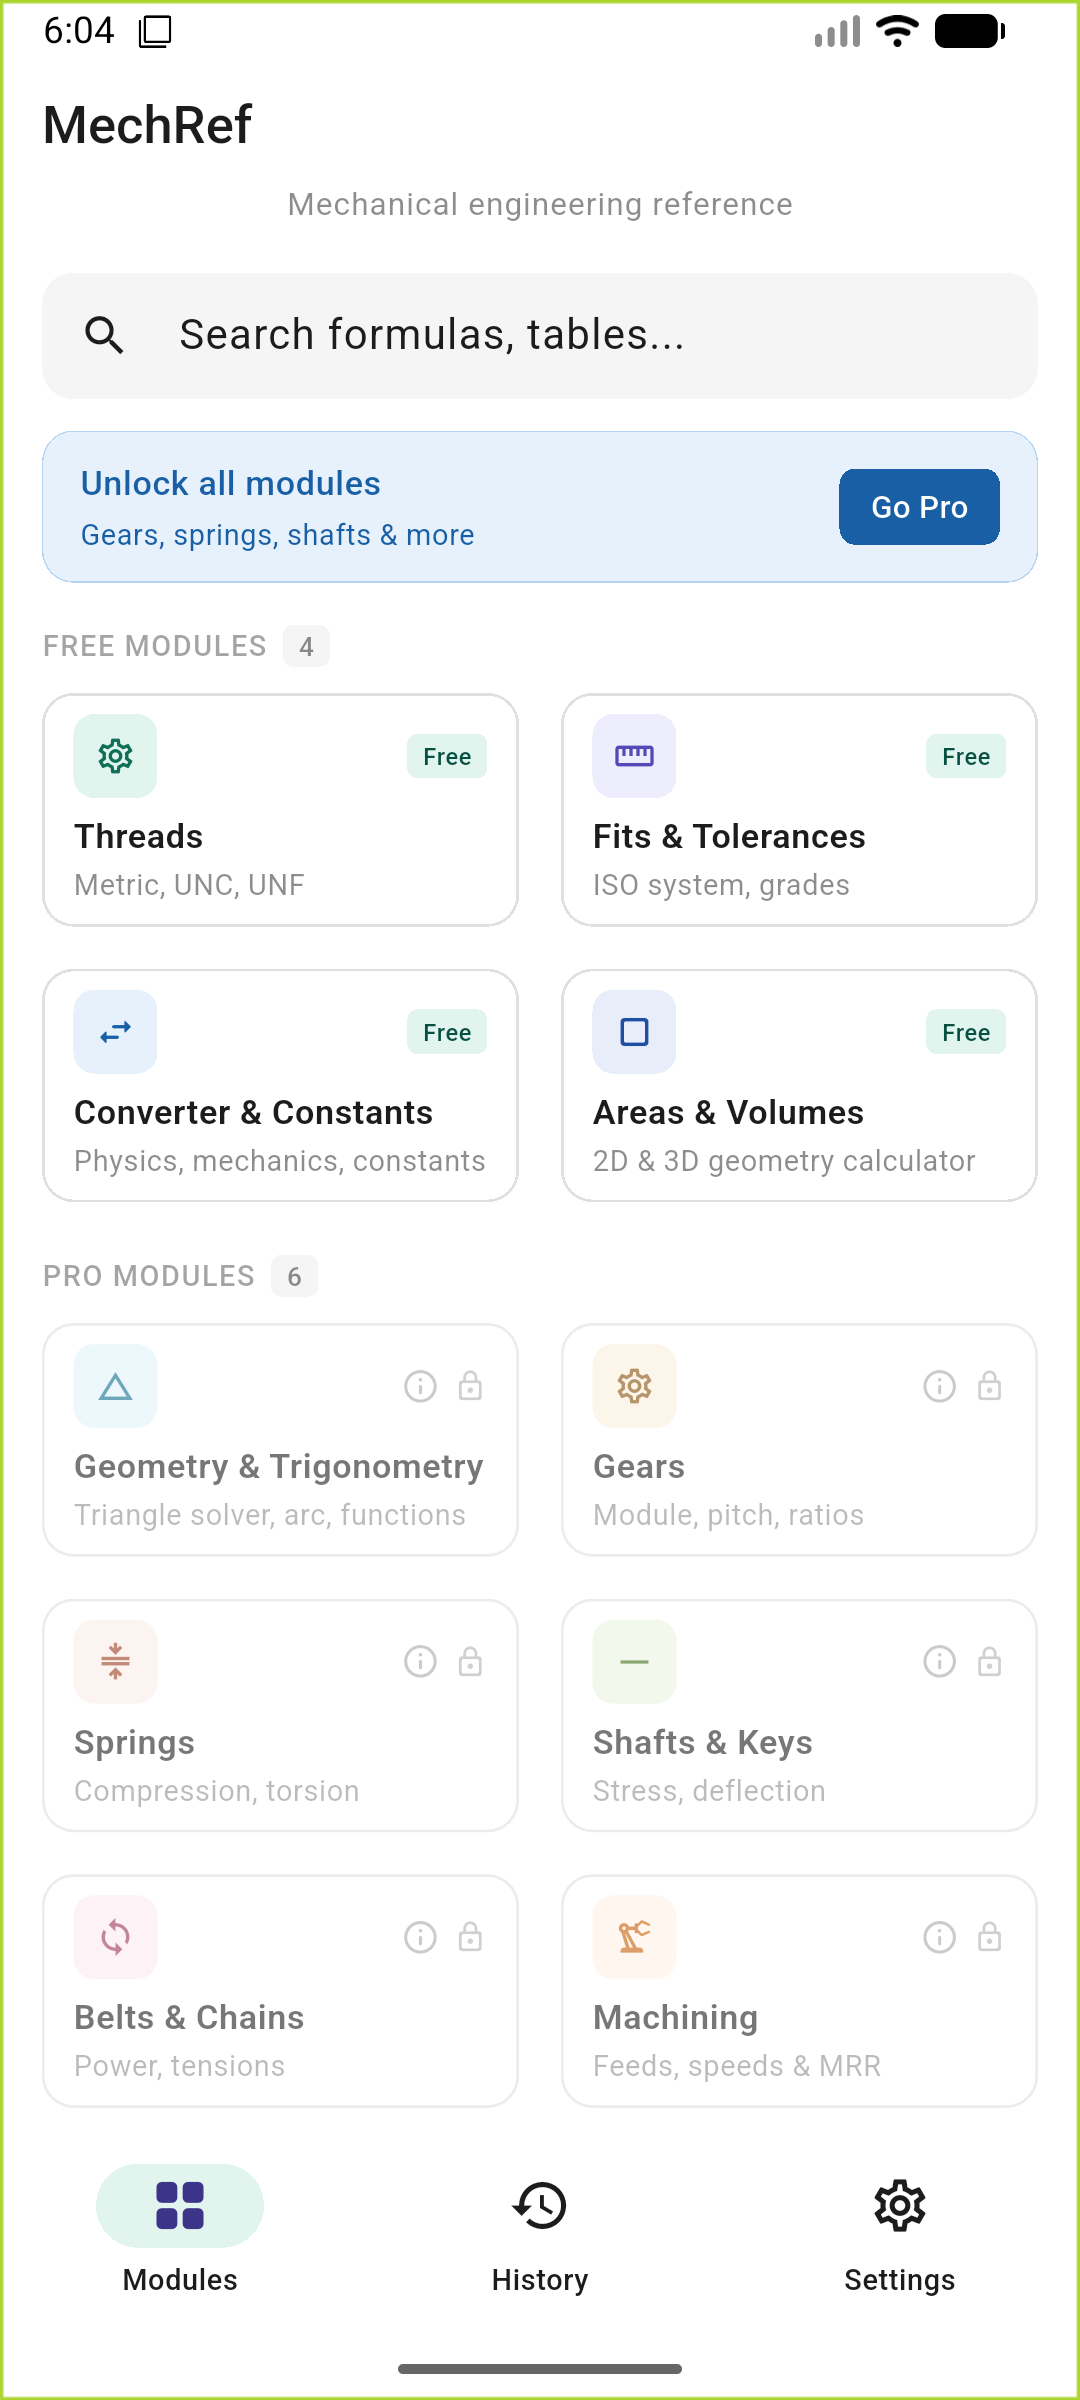
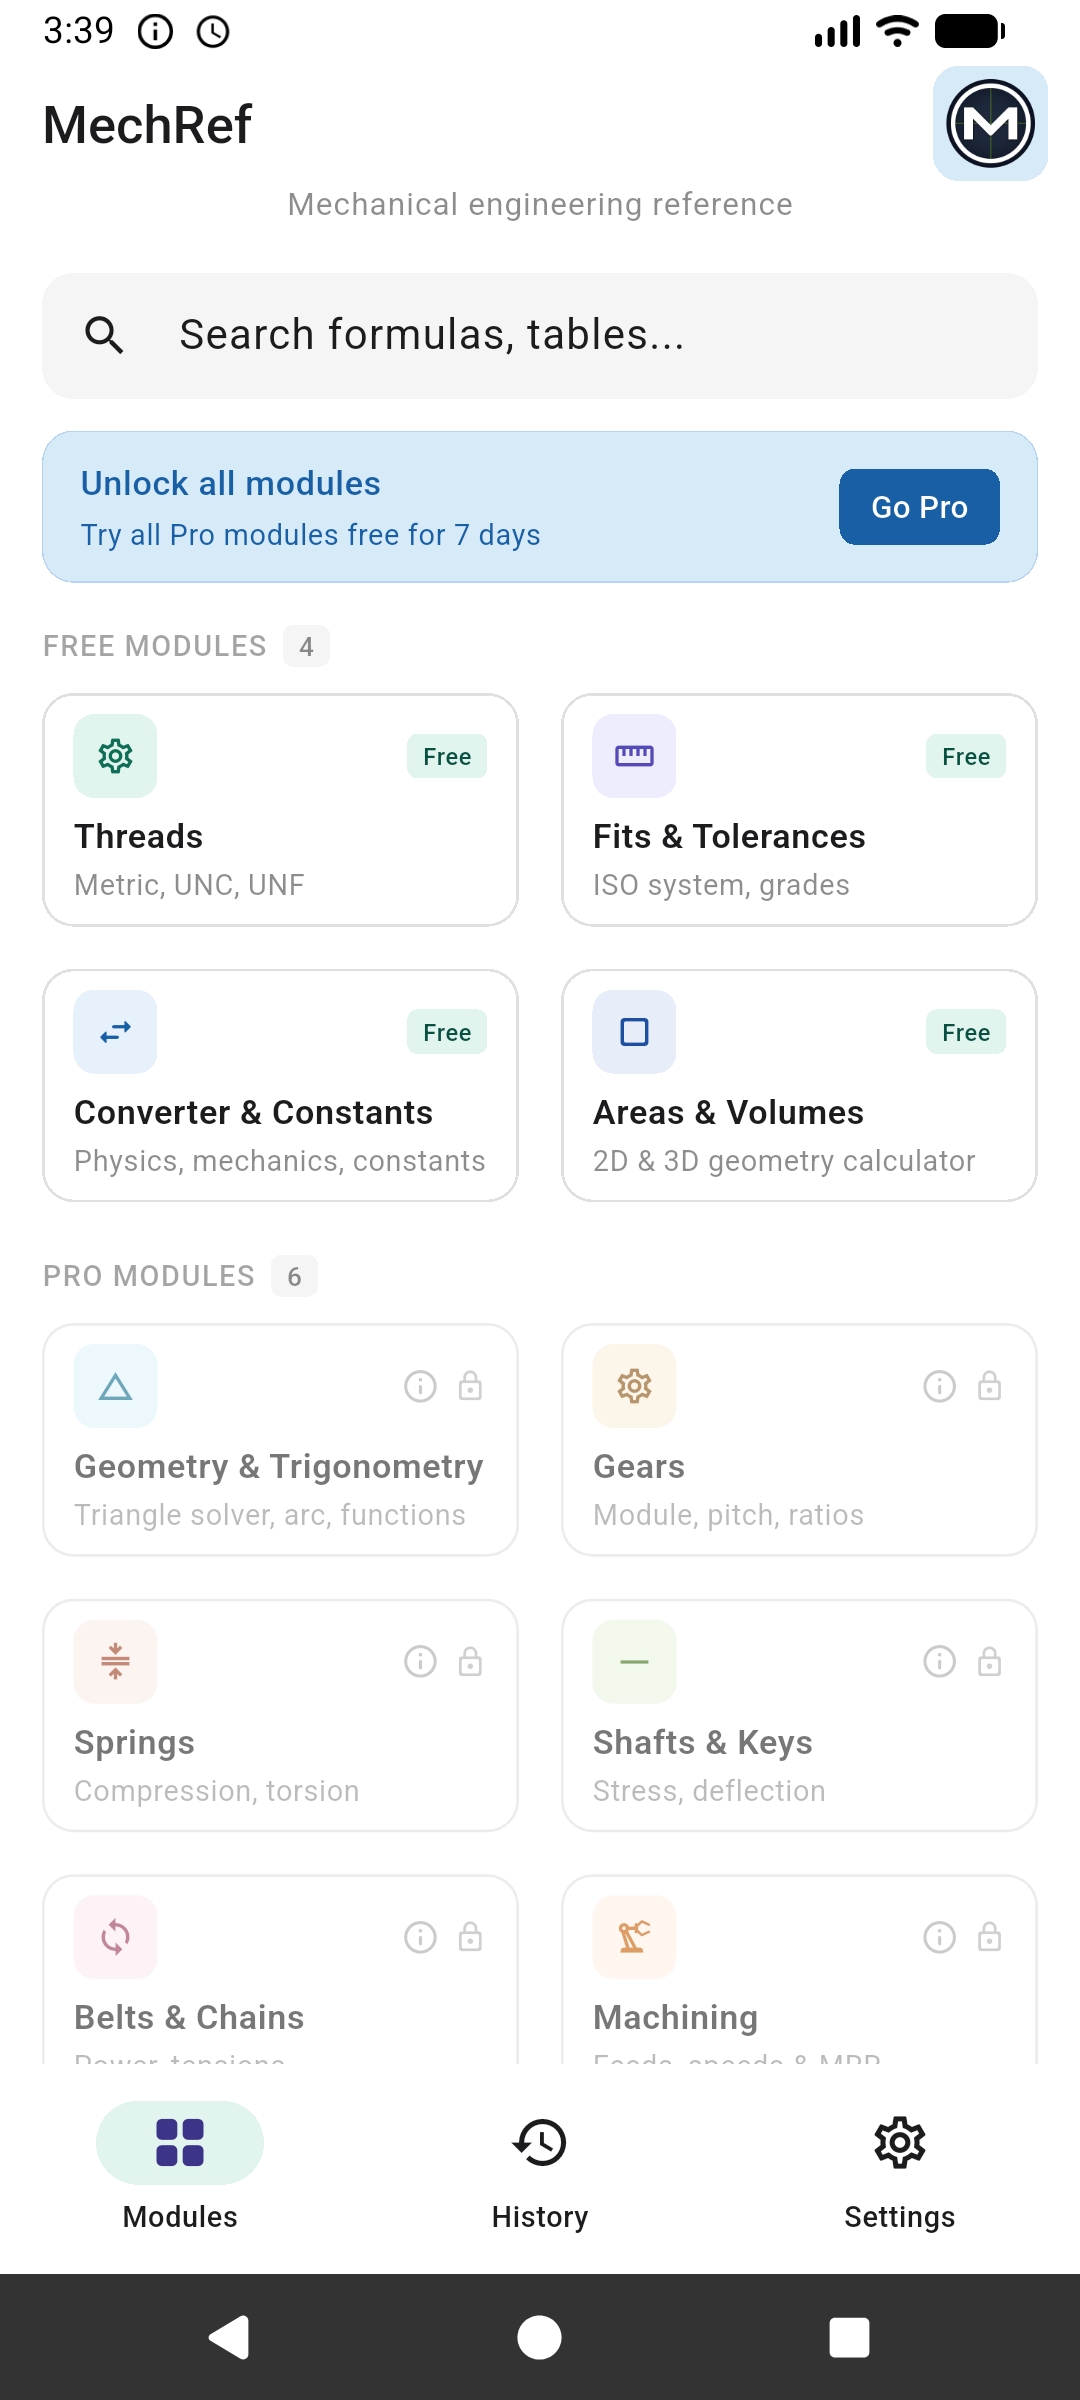
Refresh phone screenshots with the 1.0.6 sets (EN + ES)
The landing pages showed pre-1.0.6 shots with no trial banner. EN now
uses the new English set; the Spanish page gets its own Spanish shots at
screenshots/es/ instead of reusing the English ones.

Changed region(s): [[0.0, 0.0, 1.0, 1.0], [0.0917, 0.2188, 0.4889, 0.25], [0.7639, 0.0, 0.7944, 0.0312]]

diff --git a/index.es.html b/index.es.html
@@ -461,13 +461,13 @@
 
   <div class="hero-visual">
     <div class="phone-frame phone-left">
-      <img src="screenshots/screen2.png" alt="Módulo Roscas"/>
+      <img src="screenshots/es/screen2.png" alt="Módulo Roscas"/>
     </div>
     <div class="phone-frame phone-main">
-      <img src="screenshots/screen1.png" alt="Inicio de MechRef"/>
+      <img src="screenshots/es/screen1.png" alt="Inicio de MechRef"/>
     </div>
     <div class="phone-frame phone-right">
-      <img src="screenshots/screen3.png" alt="Ajustes y tolerancias"/>
+      <img src="screenshots/es/screen3.png" alt="Ajustes y tolerancias"/>
     </div>
   </div>
 </div>
@@ -546,11 +546,11 @@
   <div class="section-label">Capturas</div>
   <h2>Míralo en Acción</h2>
   <div class="screenshots-scroll">
-    <div class="screenshot-item"><img src="screenshots/screen1.png" alt="Pantalla de inicio"/></div>
-    <div class="screenshot-item"><img src="screenshots/screen2.png" alt="Módulo Roscas"/></div>
-    <div class="screenshot-item"><img src="screenshots/screen3.png" alt="Ajustes y Tolerancias"/></div>
-    <div class="screenshot-item"><img src="screenshots/screen4.png" alt="Áreas y Volúmenes"/></div>
-    <div class="screenshot-item"><img src="screenshots/screen5.png" alt="Convertidor y Constantes"/></div>
+    <div class="screenshot-item"><img src="screenshots/es/screen1.png" alt="Pantalla de inicio"/></div>
+    <div class="screenshot-item"><img src="screenshots/es/screen2.png" alt="Módulo Roscas"/></div>
+    <div class="screenshot-item"><img src="screenshots/es/screen3.png" alt="Ajustes y Tolerancias"/></div>
+    <div class="screenshot-item"><img src="screenshots/es/screen4.png" alt="Áreas y Volúmenes"/></div>
+    <div class="screenshot-item"><img src="screenshots/es/screen5.png" alt="Convertidor y Constantes"/></div>
   </div>
 </section>
 
